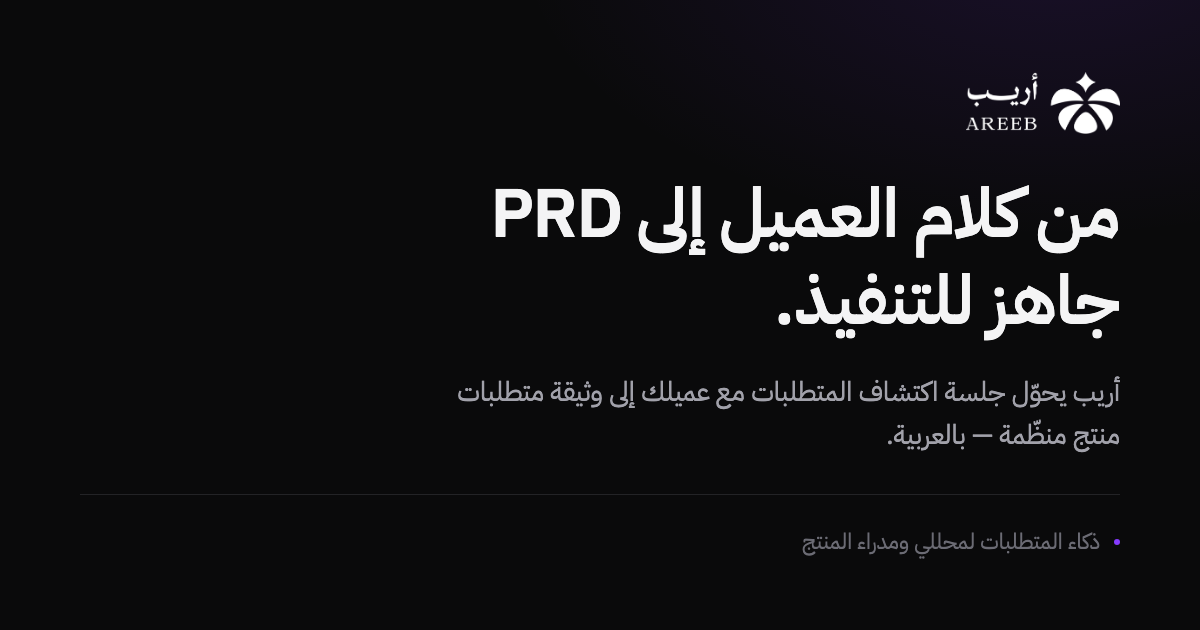
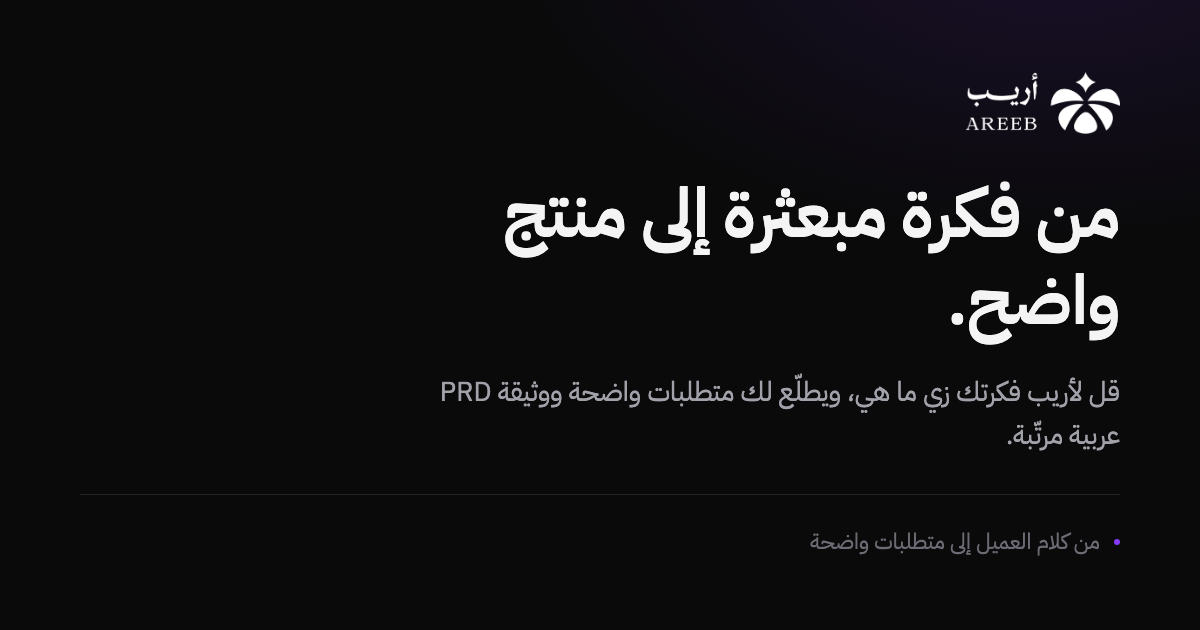
Update Arabic text for clarity and consistency across the application

Changed region(s): [[0.4008, 0.2714, 0.9558, 0.5429], [0.37, 0.6032, 0.9558, 0.7238], [0.6475, 0.8444, 0.925, 0.8746]]

diff --git a/src/components/Faq.jsx b/src/components/Faq.jsx
@@ -19,88 +19,88 @@ import { Link } from 'react-router-dom'
 
 export const FAQ_ITEMS = [
   {
-    q: 'ما الفرق بين أريب واستخدام أي مساعد ذكاء اصطناعي عام؟',
+    q: 'وش الفرق بين أريب وأي مساعد ذكاء اصطناعي عام؟',
     a: (
       <>
         <p>
-          المساعد العام يعطيك نصًا. أريب يدير <strong>عملية</strong>: يسأل عمّا نسيت أن تذكره، يرصد التناقض
-          بين ما قاله عميلك في بداية الجلسة ونهايتها، ويحوّل الكلام إلى متطلبات مرقّمة ومصنّفة بأولويات
-          MoSCoW — ثم يعرضها عليك للمراجعة قبل أن يبني الوثيقة.
+          المساعد العام يعطيك جواب. أريب يمشي معك في <strong>عملية</strong> كاملة: يسألك عن اللي فاتك،
+          وينتبه إذا كلام عميلك في أول الجلسة ما ركب على كلامه في آخرها، ويحوّل اللي انقال إلى متطلبات
+          مرقّمة ومرتّبة بأولويات MoSCoW — وبعدين يعرضها عليك تراجعها قبل ما يبني الوثيقة.
         </p>
-        <p>المخرَج ملف PDF بقالب ثابت وترقيم وفهرس، لا نص تنسخه وتلصقه وتعيد تنسيقه بنفسك.</p>
+        <p>والمخرَج ملف PDF بقالب ثابت وترقيم وفهرس، مو نص تنسخه وتلصقه وتعيد ترتيبه بنفسك.</p>
       </>
     ),
   },
   {
-    q: 'هل يفهم أريب اللهجات العربية أم الفصحى فقط؟',
+    q: 'أريب يفهم اللهجات ولا لازم أكتب فصحى؟',
     a: (
       <p>
-        الجلسة مصمّمة لتُدار بالعربية كما يتكلّم بها عميلك فعلًا، لا بالفصحى الرسمية. تكتب كلام العميل كما
-        سمعته، وأريب يستخرج منه المتطلب ويصوغه في الوثيقة بلغة مهنية. المخرَج النهائي عربي فصيح ومنسّق
-        بالكامل مع دعم RTL حقيقي.
+        الجلسة مصمّمة تمشي بالعربي زي ما يتكلّم عميلك فعلًا، مو بالفصحى الرسمية. تكتب كلامه زي ما سمعته،
+        وأريب يطلّع منه المتطلب ويصيغه في الوثيقة بلغة مهنية. المخرَج النهائي عربي مرتّب ومنسّق بالكامل
+        مع دعم RTL حقيقي.
       </p>
     ),
   },
   {
-    q: 'ماذا يحدث لبيانات عميلي؟ هل تُرسل إلى جهات خارجية؟',
+    q: 'وش يصير ببيانات عميلي؟ تروح لجهات خارجية؟',
     a: (
       <>
         <p>
-          نعم، وهذا يجب أن تعرفه قبل أن تبدأ: محتوى المحادثة يُرسل إلى مزوّدي نماذج ذكاء اصطناعي خارجيين
-          (Google وGroq) لمعالجته، وتُخزَّن مشاريعك لدى Supabase.
+          نعم، ولازم تعرفها قبل ما تبدأ: محتوى المحادثة يروح لمزوّدي نماذج ذكاء اصطناعي خارجيين
+          (Google وGroq) عشان يعالجونه، ومشاريعك تُخزَّن عند Supabase.
         </p>
         <p>
-          لا نستخدم محتواك لتدريب نماذجنا، ولا نبيعه، ولا يوجد في الموقع أي أداة تتبّع. إن كانت معلومات عميلك
-          خاضعة لاتفاقية عدم إفصاح فتأكّد أن هذا الاستخدام مسموح لك. التفاصيل الكاملة في{' '}
+          ما نستخدم محتواك لتدريب نماذجنا، ولا نبيعه، وما فيه بالموقع أي أداة تتبّع. وإذا كانت معلومات
+          عميلك تحت اتفاقية عدم إفصاح، تأكّد إن هذا الاستخدام مسموح لك. التفاصيل كاملة في{' '}
           <Link to="/privacy">سياسة الخصوصية</Link>.
         </p>
       </>
     ),
   },
   {
-    q: 'هل يمكنني تعديل المتطلبات قبل توليد الوثيقة؟',
+    q: 'أقدر أعدّل المتطلبات قبل ما تطلع الوثيقة؟',
     a: (
       <p>
-        نعم، وهي خطوة أساسية وليست اختيارية. بعد الجلسة تفتح شاشة مراجعة المتطلبات حيث تعدّل أي متطلب، أو
-        تحذفه، أو تضيف متطلبًا فات أريب، وتضبط أولويته. الوثيقة تُبنى ممّا اعتمدته أنت.
+        نعم، وهي خطوة أساسية مو اختيارية. بعد الجلسة تفتح لك شاشة مراجعة المتطلبات، تعدّل أي متطلب أو
+        تحذفه أو تضيف واحد فات أريب، وتضبط أولويته. والوثيقة تتبنى من اللي اعتمدته أنت.
       </p>
     ),
   },
   {
-    q: 'هل الوثيقة جاهزة لتسليمها للعميل مباشرة؟',
+    q: 'الوثيقة جاهزة أسلّمها للعميل على طول؟',
     a: (
       <p>
-        اعتبرها <strong>مسوّدة متقدّمة، لا نسخة نهائية</strong>. النماذج اللغوية تُخطئ: قد تستنتج متطلبًا لم
-        يُقَل أو تصوغ افتراضًا بثقة زائدة. أريب يختصر عليك ساعات الصياغة والتنسيق، لكن المراجعة المهنية
-        النهائية تبقى مسؤوليتك — ولهذا وُضعت شاشة المراجعة قبل التوليد.
+        اعتبرها <strong>مسوّدة متقدّمة، مو نسخة نهائية</strong>. النماذج اللغوية تغلط: ممكن تستنتج متطلب
+        ما انقال، أو تكتب افتراض بثقة زايدة. أريب يختصر عليك ساعات صياغة وتنسيق، بس المراجعة المهنية
+        الأخيرة تبقى مسؤوليتك — وعشان كذا حطّينا شاشة المراجعة قبل التوليد.
       </p>
     ),
   },
   {
-    q: 'بأي صيغ يمكنني تصدير الوثيقة؟',
+    q: 'أقدر أصدّر الوثيقة بأي صيغة؟',
     a: (
       <p>
-        <strong>PDF</strong> بقالب أريب — نص عربي حقيقي قابل للتحديد والبحث، لا صورة ممسوحة — و
-        <strong> Markdown</strong> إن أردت نقل المحتوى إلى Notion أو Confluence أو مستودع الكود.
+        <strong>PDF</strong> بقالب أريب — نص عربي حقيقي تقدر تحدّده وتبحث داخله، مو صورة — و
+        <strong> Markdown</strong> إذا بغيت تنقل المحتوى إلى Notion أو Confluence أو مستودع الكود.
       </p>
     ),
   },
   {
-    q: 'هل أحتاج خبرة سابقة في كتابة وثائق المتطلبات؟',
+    q: 'لازم عندي خبرة بكتابة وثائق المتطلبات؟',
     a: (
       <p>
-        لا. أريب يقود الجلسة بالأسئلة، ويعرف ما الذي يجب أن تحتويه الوثيقة (الملخص التنفيذي، تحليل المشكلة،
-        الأهداف ومؤشرات النجاح، المتطلبات الوظيفية، قصص المستخدم، النطاق، الافتراضات). دورك أن تنقل كلام
-        العميل وتراجع النتيجة.
+        لا. أريب هو اللي يقود الجلسة بالأسئلة، وعارف وش المفروض تحتويه الوثيقة (الملخص التنفيذي، تحليل
+        المشكلة، الأهداف ومؤشرات النجاح، المتطلبات الوظيفية، قصص المستخدم، النطاق، الافتراضات). دورك إنك
+        تنقل كلام العميل وتراجع النتيجة.
       </p>
     ),
   },
   {
-    q: 'هل أريب مجاني؟',
+    q: 'أريب مجاني؟',
     a: (
       <p>
-        نعم، الخدمة مجانية حاليًا وبلا خطط مدفوعة. إن تغيّر ذلك مستقبلًا فسنُشعر المستخدمين قبل التغيير، ولن
-        نفاجئك بفقدان وصولك إلى وثائق أنشأتها.
+        نعم، مجاني حاليًا وما فيه خطط مدفوعة. وإذا تغيّر هذا بعدين، بنخبر المستخدمين قبل التغيير، وما
+        بنفاجئك بإنك تفقد وصولك لوثائق أنت سوّيتها.
       </p>
     ),
   },

diff --git a/src/components/landing/LiveDemo.jsx b/src/components/landing/LiveDemo.jsx
@@ -30,19 +30,19 @@ const SCENARIOS = [
     id: 'study',
     prompt: 'أبغى أبني تطبيق يساعد الطلاب ينظمون مذاكرتهم',
     reply:
-      'حلو. قبل ما نفكر بالحل — مين الطالب اللي بالبال؟ طالب جامعي عنده مواد كثيرة، ولا طالب ثانوي يجهّز لاختبار واحد كبير؟ وش أكثر شي يضيّع وقته اليوم؟',
+      'حلو، بس خلّنا ما نستعجل بالحل. مين الطالب اللي تقصده؟ جامعي عنده مواد كثيرة، ولا ثانوي يجهّز لاختبار؟ ووش أكثر شي معطّله اليوم؟',
     confidence: 34,
     requirements: [
       { id: 'GOAL-001', type: 'الهدف', title: 'تنظيم وقت المذاكرة', priority: 'إلزامي' },
-      { id: 'USER-001', type: 'مستخدم', title: 'طالب — الفئة لم تُحدد بعد', priority: 'غير محدد' },
+      { id: 'USER-001', type: 'مستخدم', title: 'طالب — لسه الفئة ما تحددت', priority: 'غير محدد' },
     ],
-    missing: ['الفئة المستهدفة بدقة', 'ما الذي يضيّع وقت الطالب فعليًا', 'هل المشكلة في التخطيط أم في الالتزام'],
+    missing: ['مين الفئة بالضبط', 'وش يضيّع وقت الطالب فعليًا', 'المشكلة في التخطيط ولا في الالتزام'],
   },
   {
     id: 'clinic',
     prompt: 'عندي عيادة وأبغى نظام مواعيد يقلل الغياب',
     reply:
-      'واضح. الغياب له سببين غالبًا: نسيان، أو صعوبة التأجيل. أي وحد منهم أكثر عندك؟ وكم موعد باليوم تقريبًا عشان أعرف حجم النظام؟',
+      'واضح. الغياب عادة له سببين: إما نسيان، أو إن التأجيل صعب. أي واحد فيهم أكثر عندك؟ وكم موعد يجيك باليوم عشان أعرف حجم النظام؟',
     confidence: 48,
     requirements: [
       { id: 'GOAL-001', type: 'الهدف', title: 'تقليل نسبة الغياب عن المواعيد', priority: 'إلزامي' },
@@ -50,21 +50,21 @@ const SCENARIOS = [
       { id: 'FEAT-001', type: 'ميزة', title: 'نظام حجز وتذكير بالمواعيد', priority: 'إلزامي' },
       { id: 'RISK-001', type: 'خطر', title: 'قد لا يقرأ المريض التذكير', priority: 'غير محدد' },
     ],
-    missing: ['السبب الأغلب للغياب', 'حجم المواعيد اليومي', 'قناة التذكير المفضّلة'],
+    missing: ['وش السبب الأغلب للغياب', 'كم موعد باليوم', 'وين يوصله التذكير'],
   },
   {
     id: 'store',
     prompt: 'محل عندي، أبغى الزباين يطلبون أونلاين بدل الواتساب',
     reply:
-      'يعني المشكلة مو إن ما عندك مبيعات — المشكلة إن الطلبات كلها بالواتساب وتضيع. صح؟ كم طلب يوصلك باليوم، ومين اللي يرد عليهم الآن؟',
+      'يعني المشكلة مو بالمبيعات، المشكلة إن الطلبات كلها بالواتساب وتضيع. صح؟ كم طلب يوصلك باليوم، ومين اللي يرد عليهم الحين؟',
     confidence: 52,
     requirements: [
-      { id: 'GOAL-001', type: 'الهدف', title: 'نقل الطلبات من الواتساب إلى مسار منظّم', priority: 'إلزامي' },
+      { id: 'GOAL-001', type: 'الهدف', title: 'نقل الطلبات من الواتساب لمسار منظّم', priority: 'إلزامي' },
       { id: 'USER-001', type: 'مستخدم', title: 'زبون يطلب من المحل', priority: 'إلزامي' },
       { id: 'FR-001', type: 'متطلب', title: 'سلة طلب وتأكيد', priority: 'إلزامي' },
       { id: 'NFR-001', type: 'غير وظيفي', title: 'يعمل على الجوال أساسًا', priority: 'مفضّل' },
     ],
-    missing: ['عدد الطلبات اليومي', 'من يدير الطلبات حاليًا', 'هل يوجد دفع إلكتروني'],
+    missing: ['كم طلب باليوم', 'مين يدير الطلبات الحين', 'فيه دفع إلكتروني ولا لا'],
   },
 ]
 
@@ -129,15 +129,15 @@ export function LiveDemo() {
   return (
     <section className="lp-demo" id="demo" ref={ref} aria-labelledby="demo-heading">
       <div className="lp-shell">
-        <p className="lp-eyebrow">تجربة أريب</p>
+        <p className="lp-eyebrow">جرّبه</p>
         <h2 id="demo-heading" className="lp-h2">
-          لا تحتاج أن تتعلّم كيف تستخدمه.
-          <span className="lp-h2-dim"> تكلّم فقط.</span>
+          ما تحتاج تتعلّم كيف تستخدمه.
+          <span className="lp-h2-dim"> بس تكلّم.</span>
         </h2>
 
         <div className="lp-demo-grid">
           <div className="lp-demo-pick">
-            <p className="lp-label">جرّب واحدة من هذي:</p>
+            <p className="lp-label">جرّب وحدة من هذي:</p>
             <div className="lp-demo-chips" role="group" aria-label="أمثلة للتجربة">
               {SCENARIOS.map((scene, i) => (
                 <button
@@ -152,8 +152,8 @@ export function LiveDemo() {
               ))}
             </div>
             <p className="lp-demo-note">
-              هذه إعادة عرض لجلسة حقيقية — بنفس الشكل الذي يُخرجه أريب فعليًا، وليست نموذجًا يعمل الآن على
-              هذه الصفحة.
+              هذي إعادة عرض لجلسة حقيقية، بنفس الشكل اللي يطلّعه أريب فعليًا — مو نموذج شغّال الحين على
+              هذي الصفحة.
             </p>
           </div>
 
@@ -186,7 +186,7 @@ export function LiveDemo() {
 
             <aside className={`lp-extract${phase === PHASES.ANSWERED ? ' is-live' : ''}`} aria-label="ما استخرجه أريب">
               <header className="lp-extract-head">
-                <span className="lp-label">استُخرج من هذه الرسالة</span>
+                <span className="lp-label">طلع من هذي الرسالة</span>
                 <span className="lp-conf">
                   <span className="lp-conf-bar">
                     <span
@@ -211,7 +211,7 @@ export function LiveDemo() {
               </ul>
 
               <div className="lp-missing">
-                <span className="lp-label">وما زال ناقصًا</span>
+                <span className="lp-label">ولسه ناقص</span>
                 <ul>
                   {scenario.missing.map((item) => (
                     <li key={item}>{item}</li>

diff --git a/src/components/landing/Capabilities.jsx b/src/components/landing/Capabilities.jsx
@@ -14,18 +14,18 @@ import { useInView } from '../../hooks/useInView'
 const ROWS = [
   {
     k: 'الاكتشاف',
-    title: 'يسأل عمّا نسيت أن تذكره.',
-    body: 'سؤال أو سؤالان في كل رد، بالترتيب: المشكلة ثم المستخدم ثم السيناريو. ولا يقترح حلًا قبل أن يفهم — القاعدة مكتوبة في تعليماته، لا متروكة لتقديره.',
+    title: 'يسأل عن اللي فاتك.',
+    body: 'إذا فيه معلومة مهمة ناقصة، ما يفترضها من عنده — يسألك عنها. ويمشي بالترتيب: المشكلة، بعدين المستخدم، بعدين السيناريو. وما يقترح حل قبل ما يفهم.',
     proof: {
       kind: 'lines',
-      label: 'ما زال ناقصًا',
-      items: ['الفئة المستهدفة بدقة', 'حجم الاستخدام المتوقع', 'قناة التواصل المفضّلة'],
+      label: 'لسه ناقص',
+      items: ['مين الفئة بالضبط', 'كم الاستخدام المتوقّع', 'وين يوصل التواصل'],
     },
   },
   {
-    k: 'الاستخراج',
-    title: 'كل جملة تصير عنصرًا له معرّف.',
-    body: 'سبعة أنواع — هدف، مستخدم، ميزة، متطلب وظيفي، غير وظيفي، خطر، افتراض — كل نوع بترقيمه الخاص الذي لا يتغيّر عبر الجلسة.',
+    k: 'الترتيب',
+    title: 'يرتّب الكلام.',
+    body: 'اللي تقوله يتحوّل لأهداف، مستخدمين، ميزات ومتطلبات — سبعة أنواع، وكل واحد له معرّف واضح ما يتغيّر طول الجلسة.',
     proof: {
       kind: 'chips',
       label: 'أنواع المتطلبات',
@@ -34,8 +34,8 @@ const ROWS = [
   },
   {
     k: 'المراجعة',
-    title: 'الوثيقة تُبنى ممّا اعتمدته أنت.',
-    body: 'قبل التوليد تمرّ على كل عنصر: عدّل صياغته، اضبط أولويته، احذفه، أو أضِف متطلبًا فات أريب. لا شيء يدخل الوثيقة دون أن تراه.',
+    title: 'أنت اللي تعتمد.',
+    body: 'قبل ما تطلع الوثيقة، تشوف كل شي. عدّل، احذف، أضف متطلب فات أريب، أو غيّر الأولوية. ما فيه شي يدخل الوثيقة قبل ما تشوفه.',
     proof: {
       kind: 'moscow',
       label: 'الأولويات',
@@ -44,11 +44,11 @@ const ROWS = [
   },
   {
     k: 'الاستمرارية',
-    title: 'لا يتوقف لأن مزوّدًا واحدًا تعثّر.',
-    body: 'مسار المحادثة ومسار توليد الوثيقة لكل منهما مزوّد أساسي وبديل يتولّى تلقائيًا عند الفشل، مع تحقق من شكل الرد قبل أن يصل إليك.',
+    title: 'ما يوقف إذا تعثّر مزوّد.',
+    body: 'عنده مسار بديل ياخذ مكان الأساسي تلقائيًا إذا صارت مشكلة، عشان الجلسة ما تتعطّل. وقبل ما يوصلك أي رد، يتأكد إنه جاي بالشكل الصحيح.',
     proof: {
       kind: 'chain',
-      label: 'سلسلة التشغيل',
+      label: 'المسار والبديل',
       items: [
         ['المحادثة', 'Gemini', 'Groq'],
         ['الوثيقة', 'Groq', 'Gemini'],
@@ -137,7 +137,7 @@ export function Capabilities() {
       <div className="lp-shell">
         <p className="lp-eyebrow">المزايا</p>
         <h2 id="caps-heading" className="lp-h2">
-          أربع قرارات تصميم
+          أربع أشياء
           <span className="lp-h2-dim"> تفرّقه عن محادثة عادية.</span>
         </h2>
         <div className="lp-cap-rows">

diff --git a/src/components/landing/PrdBuild.jsx b/src/components/landing/PrdBuild.jsx
@@ -71,18 +71,19 @@ export function PrdBuild() {
             <span className="lp-h2-dim"> لا ملخّص يُنسخ.</span>
           </h2>
           <p className="lp-lede">
-            ثماني صفحات بقالب أريب: غلاف وسبعة أقسام مرقّمة، بنص عربي حقيقي قابل للتحديد والبحث — لا صورة
-            ممسوحة. تُصدَّر PDF أو Markdown من نفس البيانات.
+            مو مجرد كلام مرتّب وخلاص. أريب ياخذ اللي طلع من الجلسة ويحوّله إلى PRD تقدر تراجعه وتعدّله
+            وتسلّمه لفريقك. ثمان صفحات بقالب أريب، بنص عربي حقيقي تقدر تحدّده وتبحث داخله — مو صورة داخل
+            الملف.
           </p>
           <ul className="lp-prd-facts">
             <li>
-              <span className="lp-num">٨</span> صفحات، RTL من التصميم لا من المحاذاة
+              <span className="lp-num">٨</span> صفحات، RTL من أساس التصميم مو محاذاة وخلاص
             </li>
             <li>
-              <span className="lp-num">٧</span> أنواع متطلبات بمعرّفات ثابتة
+              <span className="lp-num">٧</span> أنواع متطلبات، كل واحد له معرّف ثابت
             </li>
             <li>
-              <span className="lp-num">PDF · MD</span> من نفس المصدر، بلا إعادة توليد
+              <span className="lp-num">PDF · MD</span> من نفس المصدر، بدون ما يعيد التوليد
             </li>
           </ul>
         </div>

diff --git a/index.html b/index.html
@@ -18,7 +18,7 @@
          are injected at build time by vite/seoPlugin.js from VITE_SITE_URL.
          Hardcoding a guessed domain would be worse than omitting them.
          ========================================================== -->
-    <title>أريب — من كلام العميل إلى PRD جاهز للتنفيذ</title>
+    <title>أريب — من فكرة مبعثرة إلى منتج واضح</title>
     <meta
       name="description"
       content="أريب أداة ذكاء المتطلبات لمحللي ومدراء المنتج: حوّل جلسة اكتشاف المتطلبات مع عميلك إلى وثيقة PRD عربية منظّمة وجاهزة للتصدير."
@@ -43,7 +43,7 @@
     <meta property="og:type" content="website" />
     <meta property="og:site_name" content="أريب" />
     <meta property="og:locale" content="ar_AR" />
-    <meta property="og:title" content="أريب — من كلام العميل إلى PRD جاهز للتنفيذ" />
+    <meta property="og:title" content="أريب — من فكرة مبعثرة إلى منتج واضح" />
     <meta
       property="og:description"
       content="أريب أداة ذكاء المتطلبات لمحللي ومدراء المنتج: حوّل جلسة اكتشاف المتطلبات مع عميلك إلى وثيقة PRD عربية منظّمة وجاهزة للتصدير."

diff --git a/src/lib/site.js b/src/lib/site.js
@@ -39,7 +39,7 @@ export function absoluteUrl(path = '/') {
 
 /* The Open Graph preview. Regenerate with scripts/generate-og-image.mjs. */
 export const OG_IMAGE_PATH = '/assets/areeb/og-image.png'
-export const OG_IMAGE_ALT = 'أريب — من كلام العميل إلى PRD جاهز للتنفيذ'
+export const OG_IMAGE_ALT = 'أريب — من فكرة مبعثرة إلى منتج واضح'
 
 /* Contact address for the privacy/terms pages. Env-driven for the same
    reason as SITE_URL: an invented address on a legal page is worse than
@@ -48,7 +48,7 @@ export const OG_IMAGE_ALT = 'أريب — من كلام العميل إلى PRD 
 export const CONTACT_EMAIL = (import.meta.env.VITE_CONTACT_EMAIL || '').trim()
 
 export const DEFAULT_DESCRIPTION =
-  'أريب أداة ذكاء المتطلبات لمحللي ومدراء المنتج: حوّل جلسة اكتشاف المتطلبات مع عميلك إلى وثيقة PRD عربية منظّمة وجاهزة للتصدير.'
+  'قل لأريب فكرتك زي ما هي. يسألك عن اللي ناقص، يرتّب كلامك، ويطلّع لك وثيقة PRD عربية مرتّبة تقدر تراجعها وتصدّرها PDF أو Markdown.'
 
 /* The route inventory lives in ./routes.js as env-free data so the Vite
    build can import the same list — re-exported here so app code has one

diff --git a/src/components/Seo.jsx b/src/components/Seo.jsx
@@ -64,7 +64,7 @@ export function Seo({ title, description = DEFAULT_DESCRIPTION, noindex = false,
   useEffect(() => {
     /* The brand goes in every title, but never twice — the landing page's
        own title already *is* the brand, so it opts out by passing no title. */
-    const fullTitle = title ? `${title} — ${SITE_NAME}` : `${SITE_NAME} — من كلام العميل إلى PRD جاهز للتنفيذ`
+    const fullTitle = title ? `${title} — ${SITE_NAME}` : `${SITE_NAME} — من فكرة مبعثرة إلى منتج واضح`
     document.title = fullTitle
 
     setTag('meta[name="description"]', { name: 'description', content: description })

diff --git a/src/components/SiteFooter.jsx b/src/components/SiteFooter.jsx
@@ -22,7 +22,7 @@ export function SiteFooter() {
             accessible one: the tagline beside it stays plain text. */}
         <p className="site-footer-brand">
           <img src={LOGO_LOCKUP_WHITE} alt={SITE_NAME} className="site-footer-lockup" />
-          <span className="site-footer-tagline">ذكاء المتطلبات لمحللي ومدراء المنتج</span>
+          <span className="site-footer-tagline">من كلام العميل إلى متطلبات واضحة</span>
         </p>
 
         {/* A real <nav> with an accessible name: a screen-reader user
